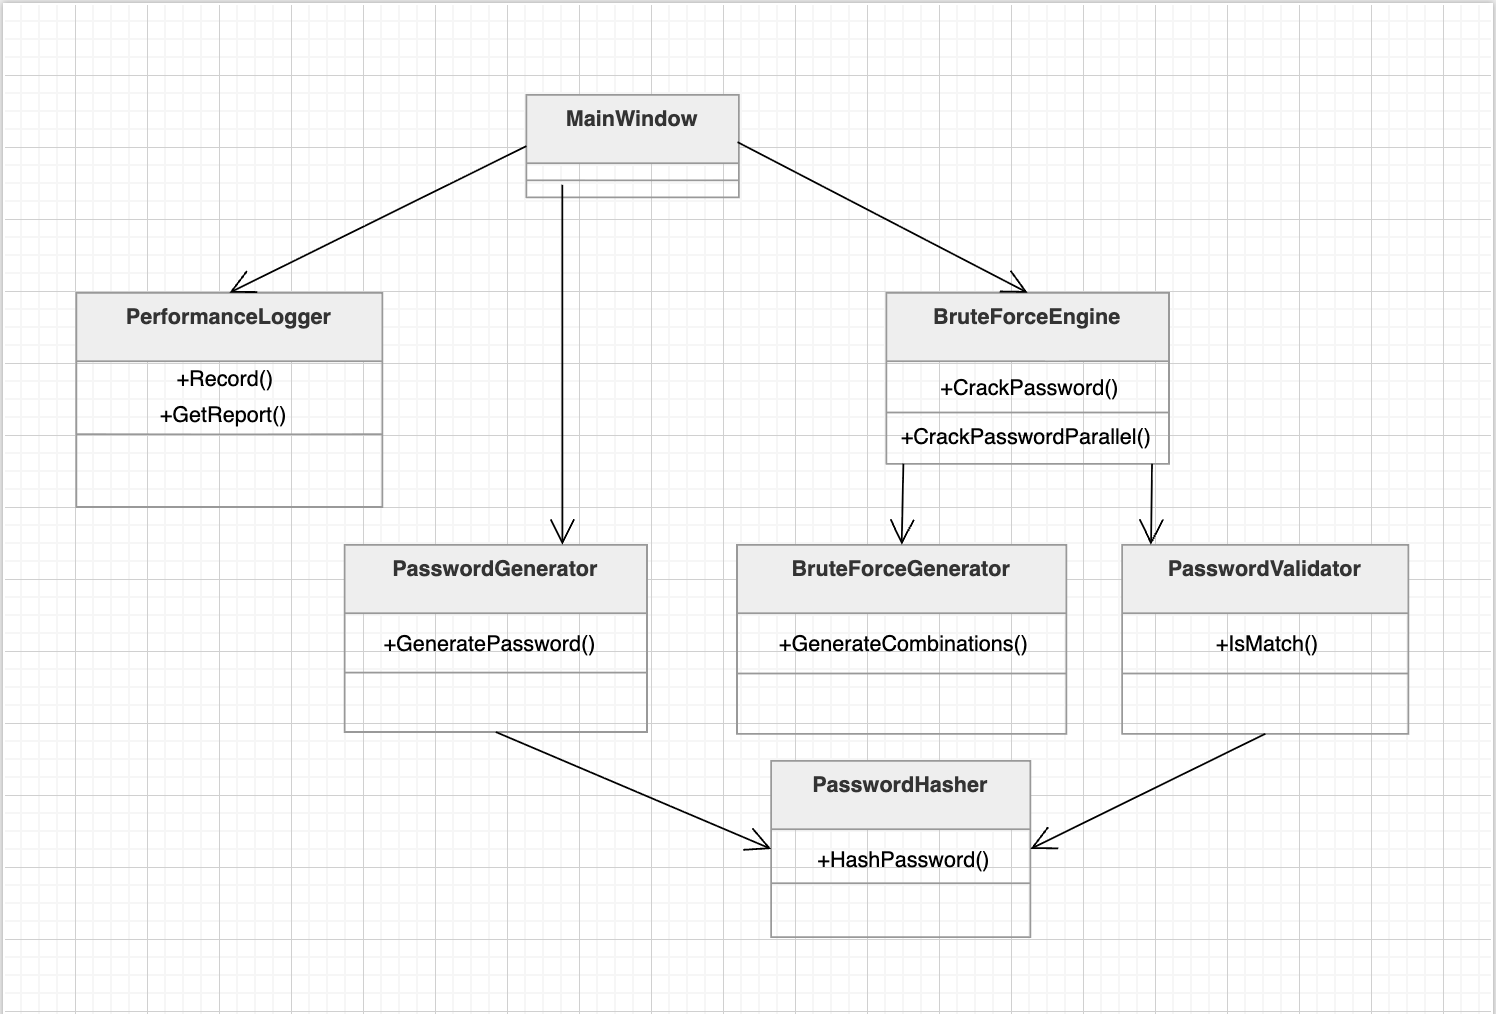
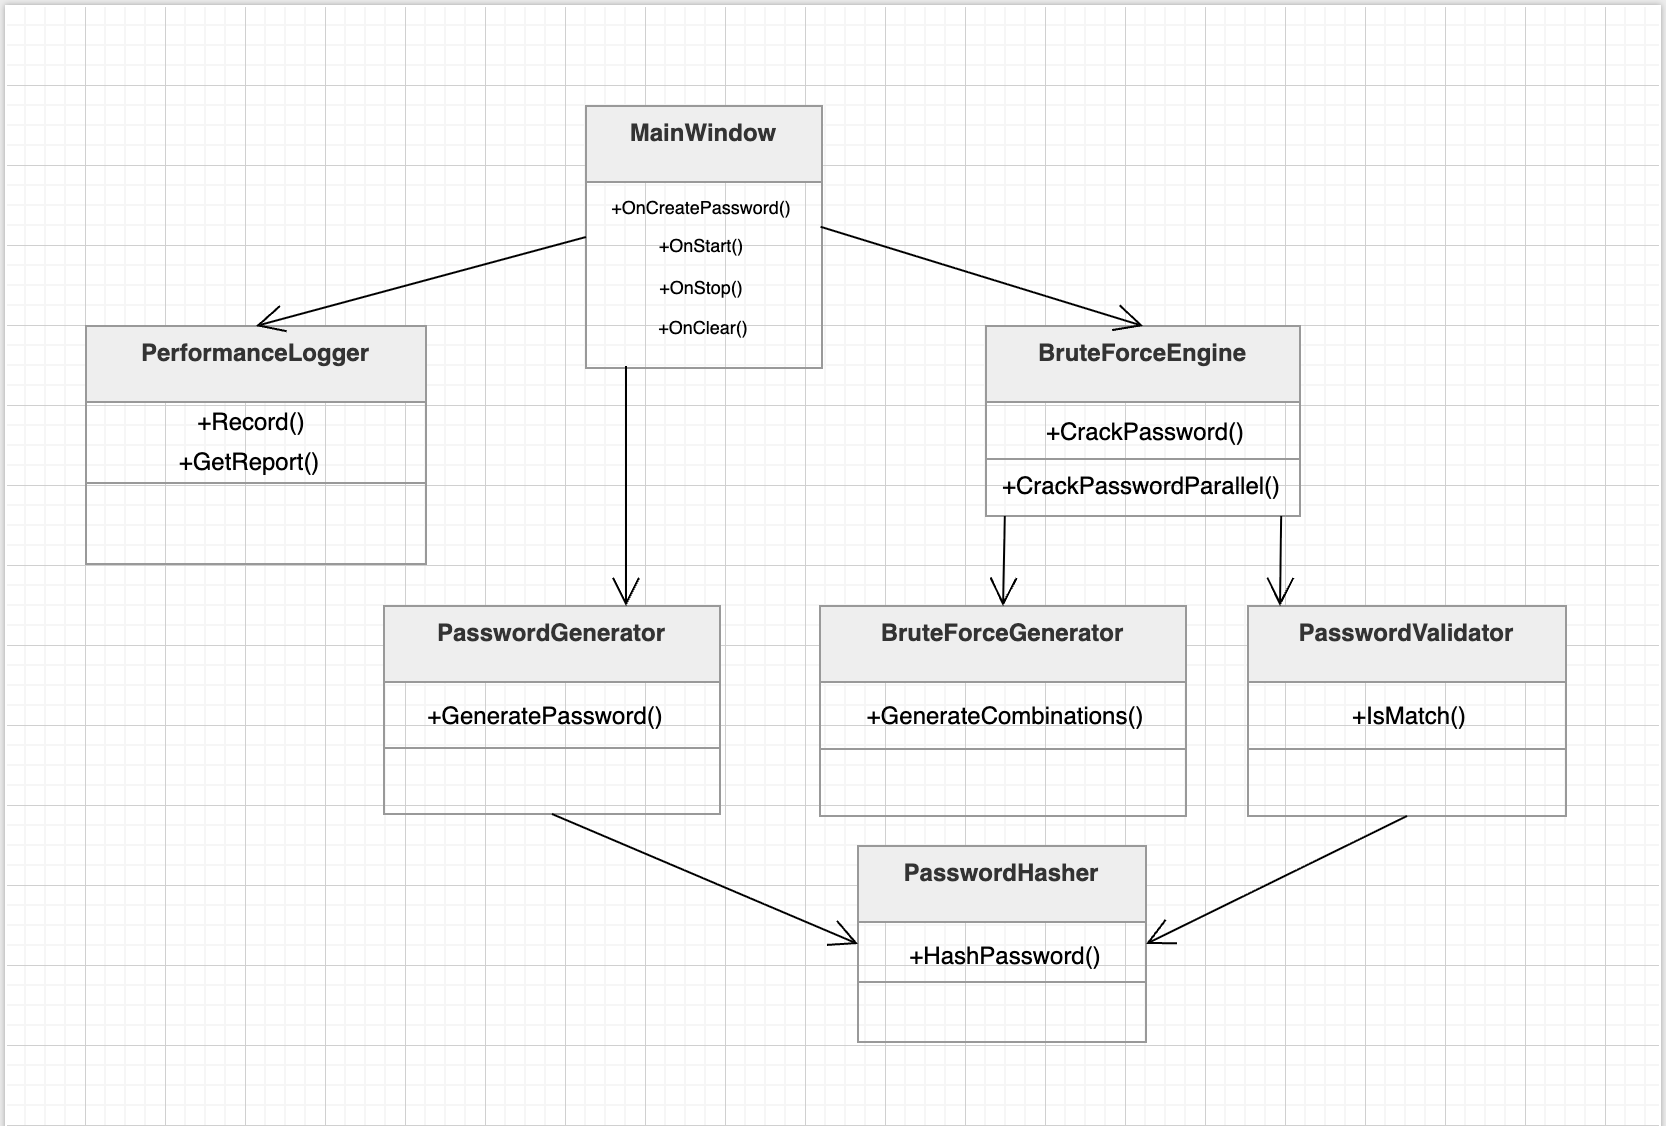
Added Avalonia GUI and completed UML diagram

diff --git a/MainWindow.axaml.cs b/MainWindow.axaml.cs
@@ -1,11 +1,86 @@
 using Avalonia.Controls;
+using Avalonia.Threading;
+using System;
+using System.Diagnostics;
+using System.Threading;
+using System.Threading.Tasks;
 
-namespace BruteForcePasswordCracker;
-
-public partial class MainWindow : Window
+namespace BruteForcePasswordCracker
 {
-    public MainWindow()
+    public partial class MainWindow : Window
     {
-        InitializeComponent();
+        private PasswordGenerator generator = new PasswordGenerator();
+        private BruteForceEngine engine = new BruteForceEngine();
+        private PerformanceLogger logger = new PerformanceLogger();
+
+        private string targetHash = "";
+        private CancellationTokenSource stopToken;
+
+        public MainWindow()
+        {
+            InitializeComponent();
+        }
+
+        private void OnCreatePassword(object sender, Avalonia.Interactivity.RoutedEventArgs e)
+        {
+            generator.GeneratePassword();
+            targetHash = generator.HashedPassword;
+            PasswordText.Text = "Password: " + generator.PlainPassword;
+            StatusText.Text = "Status: password created";
+            ResultText.Text = "";
+            TimeText.Text = "Elapsed: 0 ms";
+        }
+
+        private async void OnStart(object sender, Avalonia.Interactivity.RoutedEventArgs e)
+        {
+            if (string.IsNullOrEmpty(targetHash))
+            {
+                StatusText.Text = "Status: create a password first";
+                return;
+            }
+
+            StatusText.Text = "Status: cracking...";
+            stopToken = new CancellationTokenSource();
+
+            string hashToCrack = targetHash;
+
+            await Task.Run(() =>
+            {
+                var watch1 = Stopwatch.StartNew();
+                string single = engine.CrackPassword(hashToCrack);
+                watch1.Stop();
+
+                var watch2 = Stopwatch.StartNew();
+                string multi = engine.CrackPasswordParallel(hashToCrack);
+                watch2.Stop();
+
+                logger.Record(watch1.ElapsedMilliseconds, watch2.ElapsedMilliseconds);
+
+                Dispatcher.UIThread.Post(() =>
+                {
+                    StatusText.Text = "Status: done";
+                    TimeText.Text = $"Elapsed: single {watch1.ElapsedMilliseconds} ms, multi {watch2.ElapsedMilliseconds} ms";
+                    ResultText.Text = "Found password: " + multi + "\n\n" + logger.GetReport();
+                });
+            });
+        }
+
+        private void OnStop(object sender, Avalonia.Interactivity.RoutedEventArgs e)
+        {
+            if (stopToken != null)
+            {
+                stopToken.Cancel();
+            }
+            StatusText.Text = "Status: stop requested";
+        }
+
+        private void OnClear(object sender, Avalonia.Interactivity.RoutedEventArgs e)
+        {
+            targetHash = "";
+            PasswordText.Text = "Password: (none yet)";
+            StatusText.Text = "Status: idle";
+            TimeText.Text = "Elapsed: 0 ms";
+            ResultText.Text = "";
+        }
     }
 }